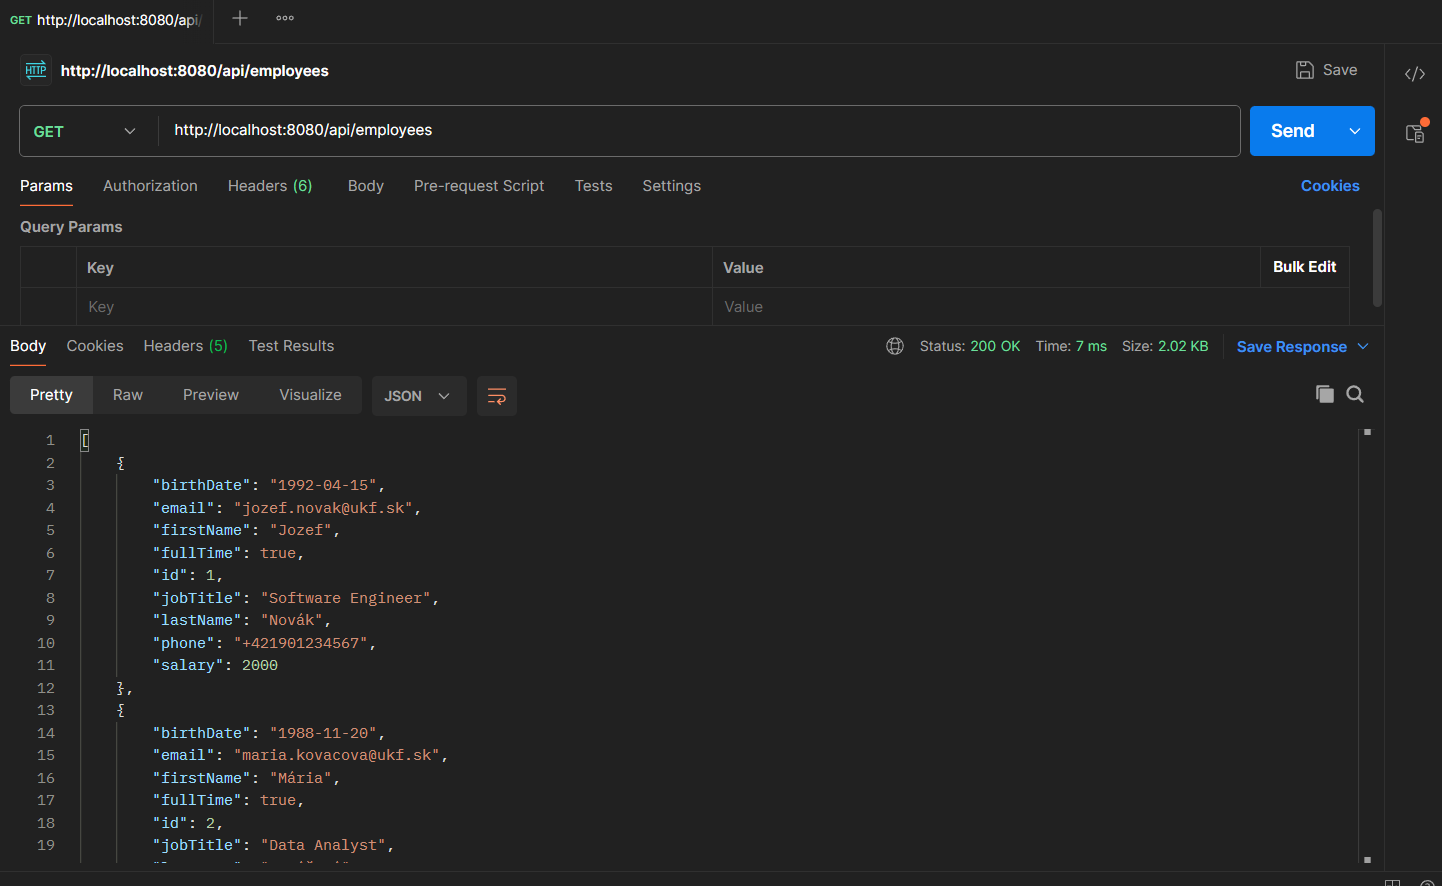
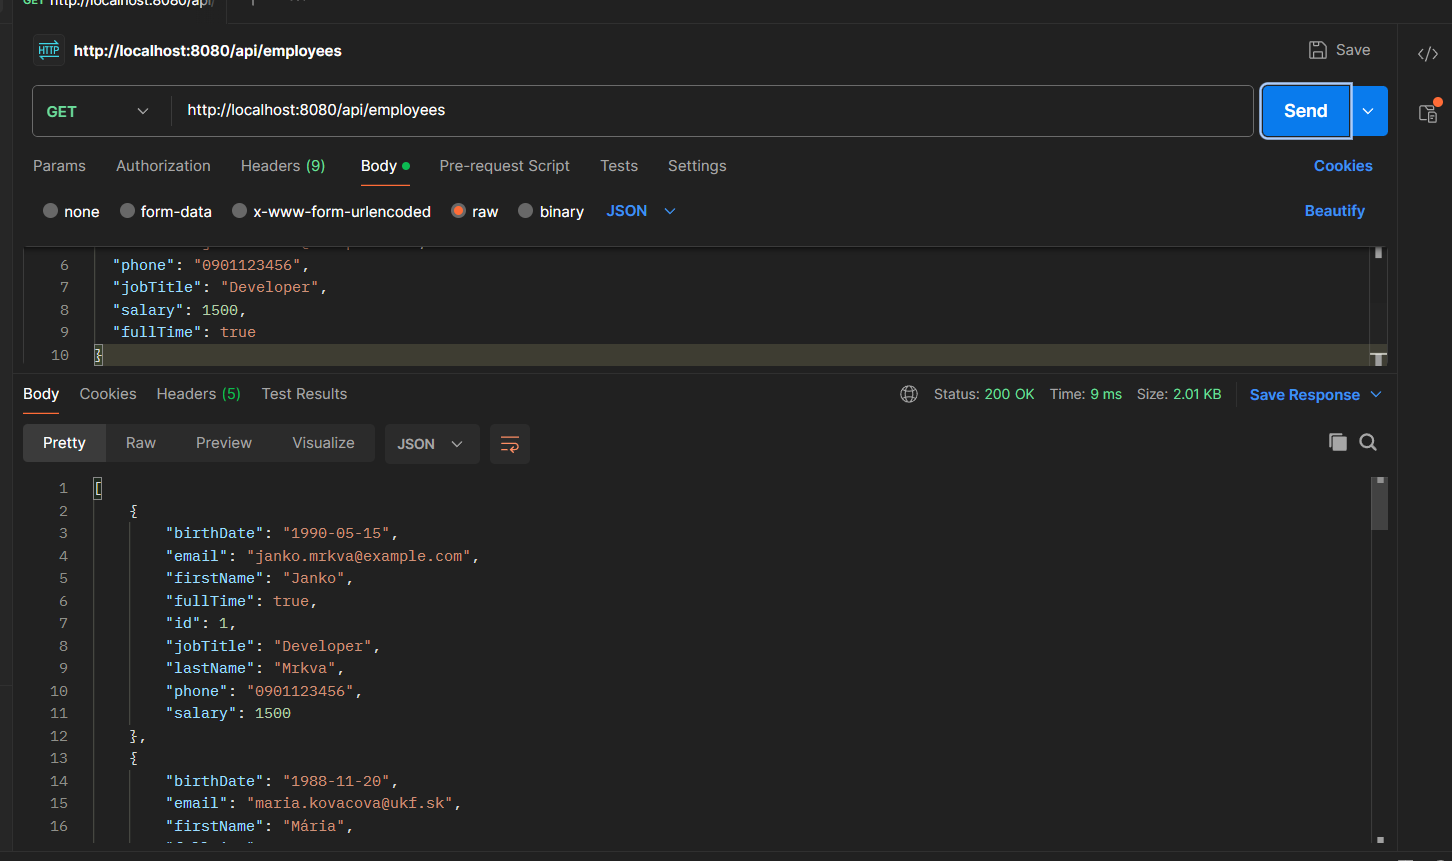
Cvičenie 3

diff --git a/demo/src/main/java/sk_ukf/demo/controller/MojController.java b/demo/src/main/java/sk_ukf/demo/controller/MojController.java
@@ -1,21 +1,25 @@
 package sk_ukf.demo.controller;
 
+import org.springframework.http.HttpStatus;
 import org.springframework.web.bind.annotation.RestController;
 
 import org.springframework.beans.factory.annotation.Autowired;
 import org.springframework.web.bind.annotation.*;
+import org.springframework.web.server.ResponseStatusException;
 import sk_ukf.demo.entity.Employee;
 import sk_ukf.demo.entity.Student;
 import sk_ukf.demo.service.EmployeeService;
 import sk_ukf.demo.service.StudentService;
 
 import java.util.List;
+import java.util.Map;
 
 @RestController
 @RequestMapping("/api")
 public class MojController {
     private final StudentService studentService;
     private final EmployeeService employeeService;
+
     @Autowired
     public MojController(StudentService studentService, EmployeeService employeeService) {
         this.studentService = studentService;
@@ -30,5 +34,82 @@ public class MojController {
     @GetMapping("/employees")
     public List<Employee> getAllEmployees() {
         return employeeService.findAll();
+    }
+
+    @GetMapping("/students/{id}")
+    public Student getStudentById(@PathVariable Integer id) {
+        Student student = studentService.findById(id);
+        if (student == null) {
+            throw new ResponseStatusException(HttpStatus.NOT_FOUND, "Student id not found - " + id);
+        }
+        return student;
+    }
+
+    @GetMapping("/employees/{id}")
+    public Employee getEmployeeById(@PathVariable Integer id) {
+        Employee employee = employeeService.findById(id);
+        if (employee == null) {
+            throw new ResponseStatusException(HttpStatus.NOT_FOUND, "Employee id not found - " + id);
+        }
+        return employee;
+    }
+
+    @PostMapping("/students")
+    @ResponseStatus(HttpStatus.CREATED)
+    public Student createStudent(@RequestBody Student student) {
+        student.setId(null);
+        return studentService.save(student);
+    }
+
+    @PostMapping("/employees")
+    @ResponseStatus(HttpStatus.CREATED)
+    public Employee createEmployee(@RequestBody Employee employee) {
+        employee.setId(null);
+        return employeeService.save(employee);
+    }
+
+    @PutMapping("/students/{id}")
+    public Student updateStudent(@PathVariable Integer id, @RequestBody Student student) {
+        Student existingStudent = studentService.findById(id);
+        if (existingStudent == null) {
+            throw new ResponseStatusException(HttpStatus.NOT_FOUND, "Student id not found - " + id);
+        }
+        student.setId(id);
+        return studentService.save(student);
+    }
+
+    @PutMapping("/employees/{id}")
+    public Employee updateEmployee(@PathVariable Integer id, @RequestBody Employee employee) {
+        Employee existingEmployee = employeeService.findById(id);
+        if (existingEmployee == null) {
+            throw new ResponseStatusException(HttpStatus.NOT_FOUND, "Employee id not found - " + id);
+        }
+        employee.setId(id);
+        return employeeService.save(employee);
+    }
+
+    @DeleteMapping("/students/{id}")
+    public Map<String, String> deleteStudent(@PathVariable Integer id) {
+        Student student = studentService.findById(id);
+        if (student == null) {
+            throw new ResponseStatusException(HttpStatus.NOT_FOUND, "Student id not found - " + id);
+        }
+        studentService.deleteById(id);
+        return Map.of("message", "Deleted student id - " + id);
+    }
+
+    @DeleteMapping("/employees/{id}")
+    public Map<String, String> deleteEmployee(@PathVariable Integer id) {
+        Employee employee = employeeService.findById(id);
+        if (employee == null) {
+            throw new ResponseStatusException(HttpStatus.NOT_FOUND, "Employee id not found - " + id);
+        }
+        employeeService.deleteById(id);
+        return Map.of("message", "Deleted employee id - " + id);
+    }
+
+    @GetMapping("/students/search")
+    public List<Student> searchStudents(@RequestParam String firstName, @RequestParam String lastName) {
+        return studentService.findByFirstNameAndLastName(firstName, lastName);
     }
 }

diff --git a/demo/src/main/java/sk_ukf/demo/service/StudentServiceImpl.java b/demo/src/main/java/sk_ukf/demo/service/StudentServiceImpl.java
@@ -2,22 +2,51 @@ package sk_ukf.demo.service;
 
 import org.springframework.beans.factory.annotation.Autowired;
 import org.springframework.stereotype.Service;
-import sk_ukf.demo.dao.StudentDAO;
+import org.springframework.transaction.annotation.Transactional; // FIX: Spring Transactional
+import sk_ukf.demo.dao.StudentRepository;
 import sk_ukf.demo.entity.Student;
 
 import java.util.List;
 
 @Service
 public class StudentServiceImpl implements StudentService {
-    private final StudentDAO studentDAO;
+
+    private final StudentRepository studentRepository;
 
     @Autowired
-    public StudentServiceImpl(StudentDAO studentDAO) {
-        this.studentDAO = studentDAO;
+    public StudentServiceImpl(StudentRepository studentRepository) {
+        this.studentRepository = studentRepository;
     }
 
     @Override
     public List<Student> findAll() {
-        return studentDAO.findAll();
+        return studentRepository.findAll();
+    }
+
+    @Override
+    public List<Student> findByFirstNameAndLastName(String firstName, String lastName) {
+        return studentRepository.findByFirstNameAndLastName(firstName, lastName);
+    }
+
+    @Override
+    public List<Student> getSortedStudents() {
+        return studentRepository.findAllByOrderByLastNameAsc();
+    }
+
+    @Override
+    public Student findById(Integer id) {
+        return studentRepository.findById(id).orElse(null);
+    }
+
+    @Transactional
+    @Override
+    public Student save(Student student) {
+        return studentRepository.save(student);
+    }
+
+    @Transactional
+    @Override
+    public void deleteById(Integer id) {
+        studentRepository.deleteById(id);
     }
 }

diff --git a/demo/src/main/java/sk_ukf/demo/service/EmployeeServiceImpl.java b/demo/src/main/java/sk_ukf/demo/service/EmployeeServiceImpl.java
@@ -2,24 +2,37 @@ package sk_ukf.demo.service;
 
 import org.springframework.beans.factory.annotation.Autowired;
 import org.springframework.stereotype.Service;
-import sk_ukf.demo.dao.EmployeeDAO;
+import sk_ukf.demo.dao.EmployeeRepository;
 import sk_ukf.demo.entity.Employee;
 
 import java.util.List;
 
 @Service
 public class EmployeeServiceImpl implements EmployeeService {
-    private final EmployeeDAO employeeDAO;
+    private final EmployeeRepository employeeRepository;
 
     @Autowired
-    public EmployeeServiceImpl(EmployeeDAO employeeDAO) {
-        this.employeeDAO = employeeDAO;
+    public EmployeeServiceImpl(EmployeeRepository employeeRepository) {
+        this.employeeRepository = employeeRepository;
     }
 
     @Override
     public List<Employee> findAll() {
-        return employeeDAO.findAll();
+        return employeeRepository.findAll();
     }
 
+    @Override
+    public Employee findById(Integer id) {
+        return employeeRepository.findById(id).orElse(null);
+    }
 
+    @Override
+    public Employee save(Employee employee) {
+        return employeeRepository.save(employee);
+    }
+
+    @Override
+    public void deleteById(Integer id) {
+        employeeRepository.deleteById(id);
+    }
 }

diff --git a/demo/src/main/java/sk_ukf/demo/dao/StudentRepository.java b/demo/src/main/java/sk_ukf/demo/dao/StudentRepository.java
@@ -1,0 +1,11 @@
+package sk_ukf.demo.dao;
+
+import org.springframework.data.jpa.repository.JpaRepository;
+import sk_ukf.demo.entity.Student;
+
+import java.util.List;
+
+public interface StudentRepository extends JpaRepository<Student, Integer> {
+    List<Student> findByFirstNameAndLastName(String firstName, String lastName);
+    List<Student> findAllByOrderByLastNameAsc();
+}

diff --git a/demo/src/main/java/sk_ukf/demo/service/StudentService.java b/demo/src/main/java/sk_ukf/demo/service/StudentService.java
@@ -4,5 +4,16 @@ import java.util.List;
 import sk_ukf.demo.entity.Student;
 
 public interface StudentService {
+
     List<Student> findAll();
+
+    Student findById(Integer id);
+
+    Student save(Student student);
+
+    void deleteById(Integer id);
+
+    List<Student> findByFirstNameAndLastName(String firstName, String lastName);
+
+    List<Student> getSortedStudents();
 }

diff --git a/demo/src/main/java/sk_ukf/demo/dao/EmployeeRepository.java b/demo/src/main/java/sk_ukf/demo/dao/EmployeeRepository.java
@@ -1,0 +1,7 @@
+package sk_ukf.demo.dao;
+
+import org.springframework.data.jpa.repository.JpaRepository;
+import sk_ukf.demo.entity.Employee;
+
+public interface EmployeeRepository extends JpaRepository<Employee, Integer> {
+}

diff --git a/demo/src/main/java/sk_ukf/demo/service/EmployeeService.java b/demo/src/main/java/sk_ukf/demo/service/EmployeeService.java
@@ -6,4 +6,7 @@ import java.util.List;
 
 public interface EmployeeService {
     List<Employee> findAll();
+    Employee findById(Integer id);
+    Employee save(Employee employee);
+    void deleteById(Integer id);
 }

diff --git a/demo/Readme.md b/demo/Readme.md
@@ -1,2 +1,1 @@
-![img.png](img.png)
-![img_1.png](img_1.png)
+![img.png](img.png)![img_1.png](img_1.png)![img_2.png](img_2.png)![img_3.png](img_3.png)![img_4.png](img_4.png)
